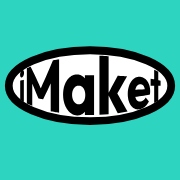
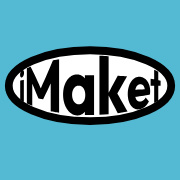
Sky & Sunshine colour scheme (option B): sky-blue bars with navy text, yellow buttons, deep-blue links and charts
Claude-Session: https://claude.ai/code/session_01PEKTxBsGT63UCqCwJyh7ub

diff --git a/src/components/dashboard/storefront-editor.tsx b/src/components/dashboard/storefront-editor.tsx
@@ -10,13 +10,13 @@ import { CoverUpload } from "./file-upload";
 import { cn, siteHost } from "@/lib/utils";
 import type { Creator, Product } from "@/lib/types";
 
-const SWATCHES = ["#2DD4BF", "#000000", "#0F766E", "#E6E6E6", "#E3F1EE", "#1E3A8A", "#9D174D", "#C2410C"];
+const SWATCHES = ["#54B9D2", "#000000", "#1D6B82", "#E6E6E6", "#E6F5FA", "#1E3A8A", "#9D174D", "#C2410C"];
 
 export function StorefrontEditor({ creator, products }: { creator: Creator; products: Product[] }) {
   const router = useRouter();
   const [s, setS] = useState({
     store_name: creator.store_name, handle: creator.handle, tagline: creator.tagline ?? "", bio: creator.bio ?? "",
-    brand_color: creator.brand_color ?? "#2DD4BF", avatar_url: creator.avatar_url, banner_url: creator.banner_url,
+    brand_color: creator.brand_color ?? "#54B9D2", avatar_url: creator.avatar_url, banner_url: creator.banner_url,
     socials: { instagram: "", tiktok: "", x: "", youtube: "", website: "", whatsapp: "", ...creator.socials },
     featured_product_ids: creator.featured_product_ids ?? [],
     join_sitewide_sales: creator.join_sitewide_sales ?? true,
@@ -49,7 +49,7 @@ export function StorefrontEditor({ creator, products }: { creator: Creator; prod
             <Input label="Store name" name="store_name" value={s.store_name} onChange={(e) => up({ store_name: e.target.value })} required />
             <div>
               <label htmlFor="handle" className="label">Store link</label>
-              <div className="flex items-center rounded-xl border bg-surface focus-within:border-brand focus-within:ring-4 focus-within:ring-brand/15">
+              <div className="flex items-center rounded-xl border bg-surface focus-within:border-deep focus-within:ring-4 focus-within:ring-deep/15">
                 <span className="pl-3.5 text-base text-muted">{siteHost()}/</span>
                 <input id="handle" value={s.handle} onChange={(e) => up({ handle: e.target.value.toLowerCase().replace(/[^a-z0-9_-]/g, "") })} className="h-11 min-w-0 flex-1 bg-transparent pr-3 outline-none" />
               </div>
@@ -101,7 +101,7 @@ export function StorefrontEditor({ creator, products }: { creator: Creator; prod
               return (
                 <li key={p.id}>
                   <label className="flex cursor-pointer items-center gap-3 rounded-xl border p-3 hover:bg-surface-2/50">
-                    <input type="checkbox" checked={on} className="h-4 w-4 accent-[rgb(var(--brand))]"
+                    <input type="checkbox" checked={on} className="h-4 w-4 accent-[rgb(var(--deep))]"
                       onChange={() => up({ featured_product_ids: on ? s.featured_product_ids.filter((x) => x !== p.id) : [...s.featured_product_ids, p.id].slice(-2) })} />
                     <span className="text-sm font-medium">{p.title}</span>
                   </label>
@@ -135,7 +135,7 @@ export function StorefrontEditor({ creator, products }: { creator: Creator; prod
           </div>
           <div className="relative z-10 px-5 pb-6">
             <Avatar name={s.store_name} src={s.avatar_url} color={s.brand_color} size={72} fit="contain" className="-mt-9 border-4 border-bg" />
-            <p className="mt-3 flex items-center gap-1.5 font-display text-xl font-bold">{s.store_name || "Your store"}{creator.verified && <BadgeCheck className="h-5 w-5 text-brand" />}</p>
+            <p className="mt-3 flex items-center gap-1.5 font-display text-xl font-bold">{s.store_name || "Your store"}{creator.verified && <BadgeCheck className="h-5 w-5 text-deep" />}</p>
             <p className="text-sm text-muted">{s.tagline || "Your tagline"}</p>
             <p className="mt-3 line-clamp-4 text-sm leading-6">{s.bio}</p>
             <div className="mt-4 flex flex-wrap gap-1.5">

diff --git a/src/components/community/groups-ui.tsx b/src/components/community/groups-ui.tsx
@@ -17,7 +17,7 @@ export function JoinButton({ groupId, privacy, state, signedIn, className }: {
   groupId: string; privacy: "public" | "private"; state: "none" | "pending" | "member" | "admin"; signedIn: boolean; className?: string;
 }) {
   const [pending, start] = useTransition();
-  if (!signedIn) return <Link href="/login?next=/groups" className={cn(pill, "bg-brand text-white hover:bg-[#0B5C56]", className)}>{privacy === "private" ? "Request To Join" : "Join Group"}</Link>;
+  if (!signedIn) return <Link href="/login?next=/groups" className={cn(pill, "bg-brand text-brand-fg hover:bg-[#EEC23F]", className)}>{privacy === "private" ? "Request To Join" : "Join Group"}</Link>;
   if (state === "admin") return <span className={cn(pill, "border border-black", className)}>Admin</span>;
   const run = (fn: () => Promise<ActionResult>) => start(async () => {
     const r = await fn();
@@ -26,7 +26,7 @@ export function JoinButton({ groupId, privacy, state, signedIn, className }: {
   if (state === "member") return <button disabled={pending} onClick={() => run(() => leaveGroup(groupId))} className={cn(pill, "border border-black bg-white hover:bg-black hover:text-white", className)}>Joined ✓</button>;
   if (state === "pending") return <button disabled={pending} onClick={() => run(() => leaveGroup(groupId))} className={cn(pill, "border border-black bg-white", className)} title="Cancel request">Requested</button>;
   return (
-    <button disabled={pending} onClick={() => run(() => joinGroup(groupId))} className={cn(pill, "bg-brand text-white hover:bg-[#0B5C56]", className)}>
+    <button disabled={pending} onClick={() => run(() => joinGroup(groupId))} className={cn(pill, "bg-brand text-brand-fg hover:bg-[#EEC23F]", className)}>
       {privacy === "private" ? "Request To Join" : "Join Group"}
     </button>
   );
@@ -139,7 +139,7 @@ export function CreateGroupButton({ signedIn }: { signedIn: boolean }) {
             <label className="flex items-start gap-2 py-1 text-base"><input type="radio" name="privacy" value="public" defaultChecked className="mt-1 accent-black" /> <span><b>Public</b> — anyone can see posts and join.</span></label>
             <label className="flex items-start gap-2 py-1 text-base"><input type="radio" name="privacy" value="private" className="mt-1 accent-black" /> <span><b>Private</b> — only members see posts; you approve requests.</span></label>
           </fieldset>
-          <button disabled={pending} className={cn(pill, "w-full bg-brand text-white hover:bg-[#0B5C56]")}>{pending ? "Creating…" : "Create Group"}</button>
+          <button disabled={pending} className={cn(pill, "w-full bg-brand text-brand-fg hover:bg-[#EEC23F]")}>{pending ? "Creating…" : "Create Group"}</button>
         </form>
       </Modal>
     </>
@@ -153,7 +153,7 @@ export function RequestRow({ groupId, userId, name, avatar }: { groupId: string;
     <li className="flex items-center gap-3 py-2">
       <Avatar name={name} src={avatar} size={32} />
       <span className="flex-1 truncate text-base">{name ?? "Member"}</span>
-      <button disabled={pending} onClick={() => run(true)} className="h-8 rounded-full bg-brand px-3 text-sm text-white">Approve</button>
+      <button disabled={pending} onClick={() => run(true)} className="h-8 rounded-full bg-brand px-3 text-sm text-brand-fg">Approve</button>
       <button disabled={pending} onClick={() => run(false)} className="h-8 rounded-full border border-black px-3 text-sm">Decline</button>
     </li>
   );

diff --git a/src/components/checkout/checkout-form.tsx b/src/components/checkout/checkout-form.tsx
@@ -177,7 +177,7 @@ export function CheckoutForm({
         <section aria-labelledby="pay-h">
           <h2 id="pay-h" className="text-xl font-semibold">Payment</h2>
           {isFree ? (
-            <p className="mt-4 rounded-xl bg-brand-soft p-4 text-sm text-brand">Nothing to pay. Your order total is {formatMoney(0, activeCurrency)}, so no payment details are needed.</p>
+            <p className="mt-4 rounded-xl bg-brand-soft p-4 text-sm text-deep">Nothing to pay. Your order total is {formatMoney(0, activeCurrency)}, so no payment details are needed.</p>
           ) : available.length === 0 ? (
             <p className="mt-4 rounded-xl border p-4 text-sm text-muted">No payment method is set up for {activeCurrency} yet. The store owner needs to enable one.</p>
           ) : (
@@ -186,9 +186,9 @@ export function CheckoutForm({
                 const ui = METHOD_UI[m.id] ?? { title: m.label, sub: "", icon: CreditCard };
                 const on = m.id === activeMethod;
                 return (
-                  <div key={m.id} className={cn("rounded-2xl border bg-surface transition-colors", on && "border-brand ring-4 ring-brand/10")}>
+                  <div key={m.id} className={cn("rounded-2xl border bg-surface transition-colors", on && "border-deep ring-4 ring-deep/10")}>
                     <button type="button" role="radio" aria-checked={on} onClick={() => setMethod(m.id)} className="flex w-full items-center gap-4 p-4 text-left">
-                      <span className={cn("grid h-5 w-5 shrink-0 place-items-center rounded-full border-2", on ? "border-brand" : "border-fg/25")}>
+                      <span className={cn("grid h-5 w-5 shrink-0 place-items-center rounded-full border-2", on ? "border-deep" : "border-fg/25")}>
                         {on && <span className="h-2.5 w-2.5 rounded-full bg-brand" />}
                       </span>
                       <ui.icon className="h-5 w-5 text-muted" aria-hidden />
@@ -249,7 +249,7 @@ export function CheckoutForm({
 
           <dl className={cn("mt-4 space-y-2 border-t pt-4 text-sm", quoting && "opacity-60")} aria-live="polite">
             <div className="flex justify-between"><dt className="text-muted">Subtotal</dt><dd>{formatMoney(quote?.subtotal ?? 0, activeCurrency)}</dd></div>
-            {!!quote?.discount_total && <div className="flex justify-between text-brand"><dt>Discount ({appliedCoupon?.toUpperCase()})</dt><dd>−{formatMoney(quote.discount_total, activeCurrency)}</dd></div>}
+            {!!quote?.discount_total && <div className="flex justify-between text-deep"><dt>Discount ({appliedCoupon?.toUpperCase()})</dt><dd>−{formatMoney(quote.discount_total, activeCurrency)}</dd></div>}
             {!!quote?.shipping_total && <div className="flex justify-between"><dt className="text-muted">Delivery</dt><dd>{formatMoney(quote.shipping_total, activeCurrency)}</dd></div>}
             <div className="flex justify-between border-t pt-3 text-lg font-semibold"><dt>Total</dt><dd>{formatMoney(quote?.total ?? 0, activeCurrency)}</dd></div>
           </dl>

diff --git a/src/components/dashboard/product-upload-modal.tsx b/src/components/dashboard/product-upload-modal.tsx
@@ -160,8 +160,8 @@ export function ProductUploadModal({ open, onClose, categories, currency, produc
             <div className="grid gap-3 sm:grid-cols-2">
               {TYPES.map((t) => (
                 <button key={t.type} type="button" onClick={() => { setD(empty(t.type)); setStep(1); }}
-                  className="flex items-start gap-3 rounded-2xl border p-4 text-left hover:border-brand hover:bg-brand-soft/40">
-                  <t.icon className="mt-0.5 h-5 w-5 text-brand" />
+                  className="flex items-start gap-3 rounded-2xl border p-4 text-left hover:border-deep hover:bg-brand-soft/40">
+                  <t.icon className="mt-0.5 h-5 w-5 text-deep" />
                   <span><span className="block font-medium">{PRODUCT_TYPE_LABEL[t.type]}</span><span className="text-sm text-muted">{t.blurb}</span></span>
                 </button>
               ))}
@@ -233,14 +233,14 @@ export function ProductUploadModal({ open, onClose, categories, currency, produc
                             <input className="input h-9 text-sm" value={l.title} aria-label={`Lesson ${li + 1} title`}
                               onChange={(e) => up({ modules: d.modules.map((x, i) => i !== mi ? x : { ...x, lessons: x.lessons.map((y, j) => (j === li ? { ...y, title: e.target.value } : y)) }) })} />
                             <label className="flex shrink-0 items-center gap-1.5 text-xs text-muted">
-                              <input type="checkbox" checked={l.is_preview} className="accent-[rgb(var(--brand))]"
+                              <input type="checkbox" checked={l.is_preview} className="accent-[rgb(var(--deep))]"
                                 onChange={(e) => up({ modules: d.modules.map((x, i) => i !== mi ? x : { ...x, lessons: x.lessons.map((y, j) => (j === li ? { ...y, is_preview: e.target.checked } : y)) }) })} />
                               Free preview
                             </label>
                           </li>
                         ))}
                       </ul>
-                      <button type="button" className="mt-2 pl-3 text-sm text-brand hover:underline"
+                      <button type="button" className="mt-2 pl-3 text-sm text-deep hover:underline"
                         onClick={() => up({ modules: d.modules.map((x, i) => (i === mi ? { ...x, lessons: [...x.lessons, { title: `Lesson ${x.lessons.length + 1}`, is_preview: false }] } : x)) })}>
                         Add lesson
                       </button>

diff --git a/src/components/dashboard/file-upload.tsx b/src/components/dashboard/file-upload.tsx
@@ -60,7 +60,7 @@ export function CoverUpload({ value, onChange }: { value: string | null; onChang
       <span className="label">Cover image</span>
       <button type="button" onClick={() => input.current?.click()}
         onDragOver={(e) => e.preventDefault()} onDrop={(e) => { e.preventDefault(); pick(e.dataTransfer.files[0]); }}
-        className="relative flex aspect-[4/3] w-full max-w-[260px] flex-col items-center justify-center gap-2 overflow-hidden rounded-2xl border-2 border-dashed bg-surface-2/40 text-sm text-muted hover:border-brand hover:text-brand">
+        className="relative flex aspect-[4/3] w-full max-w-[260px] flex-col items-center justify-center gap-2 overflow-hidden rounded-2xl border-2 border-dashed bg-surface-2/40 text-sm text-muted hover:border-deep hover:text-deep">
         {value
           // eslint-disable-next-line @next/next/no-img-element
           ? <img src={value} alt="Cover preview" className="absolute inset-0 h-full w-full object-cover" />
@@ -104,8 +104,8 @@ export function FilesUpload({ files, onChange, accept, onUploadingChange }: {
     <div>
       <button type="button" onClick={() => input.current?.click()}
         onDragOver={(e) => e.preventDefault()} onDrop={(e) => { e.preventDefault(); pick(e.dataTransfer.files); }}
-        className="flex w-full flex-col items-center gap-2 rounded-2xl border-2 border-dashed px-6 py-8 text-center hover:border-brand">
-        <UploadCloud className="h-7 w-7 text-brand" />
+        className="flex w-full flex-col items-center gap-2 rounded-2xl border-2 border-dashed px-6 py-8 text-center hover:border-deep">
+        <UploadCloud className="h-7 w-7 text-deep" />
         <span className="font-medium">Drop files here or browse</span>
         <span className="text-sm text-muted">PDF, ZIP, MP4, MP3, images — up to {MAX_FILE_LABEL} each. Buyers get them after paying.</span>
       </button>

diff --git a/src/lib/email.ts b/src/lib/email.ts
@@ -26,13 +26,13 @@ export async function sendEmail(to: string, subject: string, html: string) {
 const shell = (title: string, body: string) => `<!doctype html><html><body style="margin:0;background:#FFFFFF;font-family:Arial,Helvetica,sans-serif;color:#000000">
 <table width="100%" cellpadding="0" cellspacing="0"><tr><td align="center" style="padding:32px 12px">
 <table width="100%" style="max-width:520px;background:#fff;border-radius:16px;padding:28px" cellpadding="0" cellspacing="0">
-<tr><td style="padding-bottom:20px"><span style="display:inline-block;border:3px solid #000;border-radius:50%;padding:6px 16px;font-family:\'Arial Black\',Arial,sans-serif;font-size:20px;letter-spacing:-1px;background:#2DD4BF">${env.appName}</span></td></tr>
+<tr><td style="padding-bottom:20px"><span style="display:inline-block;border:3px solid #000;border-radius:50%;padding:6px 16px;font-family:\'Arial Black\',Arial,sans-serif;font-size:20px;letter-spacing:-1px;background:#54B9D2">${env.appName}</span></td></tr>
 <tr><td><h1 style="font-size:22px;margin:0 0 12px">${title}</h1>${body}</td></tr>
 <tr><td style="padding-top:28px;font-size:12px;color:#6B7280">You received this because of activity on ${env.appName}.</td></tr>
 </table></td></tr></table></body></html>`;
 
 const button = (href: string, label: string) =>
-  `<a href="${href}" style="display:inline-block;background:#0F766E;color:#fff;padding:12px 24px;border-radius:999px;text-decoration:none">${label}</a>`;
+  `<a href="${href}" style="display:inline-block;background:#F8D463;color:#12343B;padding:12px 24px;border-radius:999px;text-decoration:none">${label}</a>`;
 
 export const emails = {
   orderReceipt(o: { orderNumber: string; total: number; currency: string; items: { title: string; line_total: number }[]; accessUrl: string }) {

diff --git a/src/components/dashboard/charts.tsx b/src/components/dashboard/charts.tsx
@@ -32,15 +32,15 @@ export function RevenueChart({ data, currency, dataKey = "revenue", secondKey, h
         <AreaChart data={data} margin={{ top: 8, right: 4, left: -8, bottom: 0 }}>
           <defs>
             <linearGradient id="rev" x1="0" y1="0" x2="0" y2="1">
-              <stop offset="0%" stopColor="rgb(var(--brand))" stopOpacity={0.28} />
-              <stop offset="100%" stopColor="rgb(var(--brand))" stopOpacity={0} />
+              <stop offset="0%" stopColor="rgb(var(--deep))" stopOpacity={0.28} />
+              <stop offset="100%" stopColor="rgb(var(--deep))" stopOpacity={0} />
             </linearGradient>
           </defs>
           <CartesianGrid vertical={false} stroke="rgb(var(--border))" strokeDasharray="3 4" />
           <XAxis dataKey="day" {...axis} tickFormatter={(d: string) => new Date(d).toLocaleDateString("en-GB", { day: "numeric", month: "short" })} minTickGap={28} />
           <YAxis {...axis} tickFormatter={(v: number) => formatCompact(v)} width={48} />
           <Tooltip content={<ChartTooltip currency={currency} />} cursor={{ stroke: "rgb(var(--muted))", strokeDasharray: "3 3" }} />
-          <Area type="monotone" dataKey={dataKey} name="Revenue" stroke="rgb(var(--brand))" strokeWidth={2.25} fill="url(#rev)" activeDot={{ r: 4 }} />
+          <Area type="monotone" dataKey={dataKey} name="Revenue" stroke="rgb(var(--deep))" strokeWidth={2.25} fill="url(#rev)" activeDot={{ r: 4 }} />
           {secondKey && <Area type="monotone" dataKey={secondKey} name="Platform fees" stroke="rgb(var(--accent))" strokeWidth={2} fill="transparent" />}
         </AreaChart>
       </ResponsiveContainer>

diff --git a/src/app/globals.css b/src/app/globals.css
@@ -4,26 +4,30 @@
 
 @layer base {
   :root, .dark {
-    /* iMaket mint & teal palette */
+    /* iMaket sky & sunshine palette */
     --bg: 255 255 255;
     --surface: 255 255 255;
     --surface-2: 230 230 230;      /* #E6E6E6 panels behind photos */
-    --stone: 227 241 238;          /* #E3F1EE */
+    --stone: 230 245 250;          /* #E6F5FA pale sky */
     --border: 0 0 0;
     --fg: 0 0 0;
     --muted: 82 82 82;
-    --brand: 15 118 110;           /* #0F766E teal buttons */
-    --brand-fg: 255 255 255;
-    --brand-soft: 204 251 241;     /* pale mint for selected states */
-    --lime: 45 212 191;            /* #2DD4BF mint: header, footer, promo */
-    --accent: 45 212 191;
-    --success: 15 118 110;
+    --brand: 248 212 99;           /* #F8D463 sunshine-yellow buttons */
+    --brand-fg: 18 52 59;          /* #12343B navy text on yellow */
+    --deep: 29 107 130;            /* #1D6B82 deep sky: links, accents on white */
+    --brand-soft: 255 243 205;     /* pale yellow for selected states */
+    --lime: 84 185 210;            /* #54B9D2 sky blue: header, footer, promo */
+    --accent: 84 185 210;
+    --success: 29 107 130;
     --warning: 161 98 7;
     --danger: 204 24 24;
     color-scheme: light;
   }
 
   * { @apply border-border/15; }
+  /* navy text and badges on the sky-blue bars (header, footer, promos) */
+  .bg-lime, .bg-lime .text-black { color: #12343B; }
+  .bg-lime .bg-black { background-color: #12343B; }
   html { -webkit-tap-highlight-color: transparent; }
   body {
     @apply bg-bg text-fg font-sans antialiased;

diff --git a/src/app/creator/page.tsx b/src/app/creator/page.tsx
@@ -33,7 +33,7 @@ export default async function CreatorOverview() {
       </div>
 
       <div className="mt-6 grid gap-6 xl:grid-cols-[1.7fr_1fr]">
-        <Panel title="Earnings, last 30 days" action={<Link href="/creator/analytics" className="text-sm text-brand hover:underline">Full analytics</Link>}>
+        <Panel title="Earnings, last 30 days" action={<Link href="/creator/analytics" className="text-sm text-deep hover:underline">Full analytics</Link>}>
           <RevenueChart data={stats.series as unknown as Record<string, number | string>[]} currency={cur} />
         </Panel>
         <Panel title="Best sellers">
@@ -56,7 +56,7 @@ export default async function CreatorOverview() {
         </Panel>
       </div>
 
-      <Panel title="Recent orders" className="mt-6" action={<Link href="/creator/orders" className="text-sm text-brand hover:underline">All orders</Link>}>
+      <Panel title="Recent orders" className="mt-6" action={<Link href="/creator/orders" className="text-sm text-deep hover:underline">All orders</Link>}>
         {orders.length === 0 ? (
           <EmptyState icon={Receipt} title="No orders yet" body="Share your store link on WhatsApp and Instagram to get your first sale."
             action={<ButtonLink href={`/${creator.handle}`} variant="secondary">View your store</ButtonLink>} />

diff --git a/src/components/admin/admin-tables.tsx b/src/components/admin/admin-tables.tsx
@@ -43,7 +43,7 @@ export function CreatorsTable({ creators }: { creators: Creator[] }) {
               <td data-label="">
                 <div className="flex items-center gap-3">
                   <Avatar name={c.store_name} src={c.avatar_url} color={c.brand_color} size={36} />
-                  <div><Link href={`/${c.handle}`} target="_blank" className="flex items-center gap-1 font-medium hover:underline">{c.store_name}{c.verified && <BadgeCheck className="h-4 w-4 text-brand" />}</Link><p className="text-xs text-muted">/{c.handle}</p></div>
+                  <div><Link href={`/${c.handle}`} target="_blank" className="flex items-center gap-1 font-medium hover:underline">{c.store_name}{c.verified && <BadgeCheck className="h-4 w-4 text-deep" />}</Link><p className="text-xs text-muted">/{c.handle}</p></div>
                 </div>
               </td>
               <td data-label="Country">{c.country}</td>

diff --git a/src/components/dashboard/notification-dropdown.tsx b/src/components/dashboard/notification-dropdown.tsx
@@ -58,7 +58,7 @@ export function NotificationDropdown({ userId, initial }: { userId: string; init
             className="absolute right-0 mt-2 w-[min(380px,calc(100vw-2rem))] origin-top-right overflow-hidden rounded-2xl border bg-surface shadow-lift">
             <div className="flex items-center justify-between border-b px-4 py-3">
               <p className="font-semibold">Notifications</p>
-              {unread > 0 && <button onClick={markAllRead} className="text-sm text-brand hover:underline">Mark all as read</button>}
+              {unread > 0 && <button onClick={markAllRead} className="text-sm text-deep hover:underline">Mark all as read</button>}
             </div>
             <ul className="max-h-[420px] divide-y overflow-y-auto">
               {items.length === 0 && <li className="px-4 py-10 text-center text-sm text-muted">You&apos;re all caught up.</li>}

diff --git a/src/components/auth/forms.tsx b/src/components/auth/forms.tsx
@@ -72,7 +72,7 @@ export function RegisterForm({ defaultRole }: { defaultRole: "creator" | "custom
       {role === "creator" && (
         <div>
           <label htmlFor="handle" className="label">Store link</label>
-          <div className="flex items-center rounded-xl border bg-surface focus-within:border-brand focus-within:ring-4 focus-within:ring-brand/15">
+          <div className="flex items-center rounded-xl border bg-surface focus-within:border-deep focus-within:ring-4 focus-within:ring-deep/15">
             <span className="pl-3.5 text-base text-muted">{siteHost()}/</span>
             <input id="handle" name="handle" required value={handle} onChange={(e) => setHandle(e.target.value.toLowerCase().replace(/[^a-z0-9_-]/g, ""))}
               className="h-11 min-w-0 flex-1 bg-transparent pr-3 text-base outline-none" placeholder="yourname" maxLength={32} />
